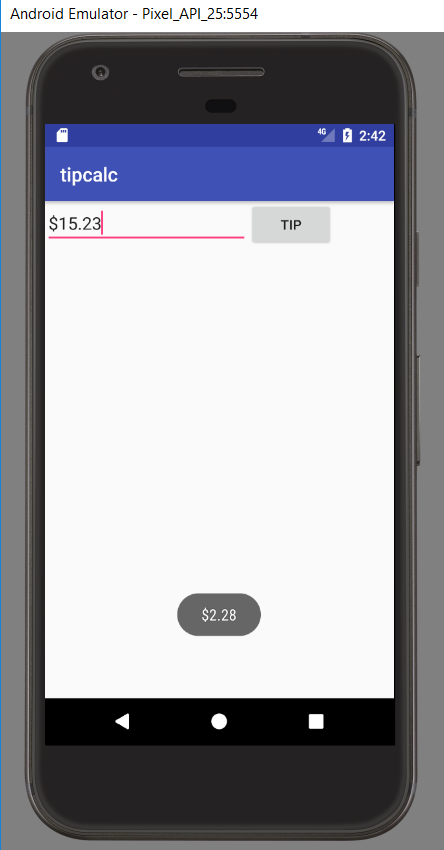
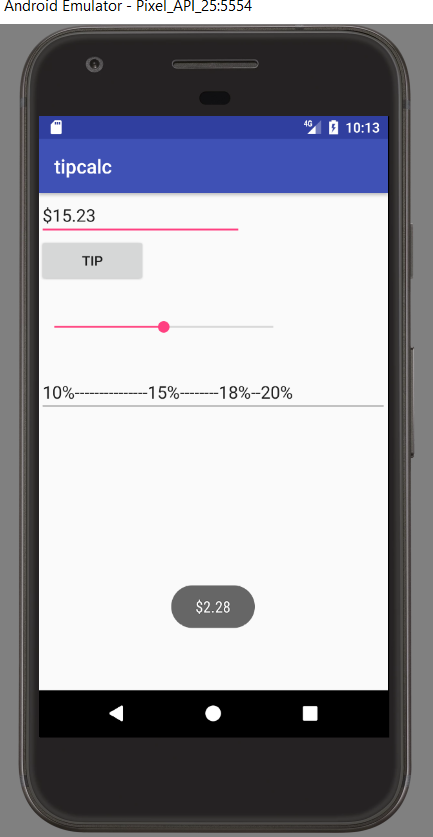
extra credit

diff --git a/app/src/main/java/edu/washington/ronney/tipcalc/MainActivity.kt b/app/src/main/java/edu/washington/ronney/tipcalc/MainActivity.kt
@@ -11,9 +11,15 @@ import android.widget.Toast
 import java.math.BigDecimal
 import android.widget.*
 import android.widget.Spinner
+import kotlinx.android.synthetic.main.activity_main.view.*
+import android.widget.SeekBar
+import android.widget.SeekBar.OnSeekBarChangeListener
+
+
 
 class MainActivity : AppCompatActivity() {
 
+    var tipValue : Double = 0.15
 
     override fun onCreate(savedInstanceState: Bundle?) {
         super.onCreate(savedInstanceState)
@@ -21,12 +27,14 @@ class MainActivity : AppCompatActivity() {
 
         val input : EditText = findViewById<View>(R.id.editText) as EditText
         val button = findViewById<View>(R.id.button) as Button
+        val seekBar = findViewById<View>(R.id.seekBar) as SeekBar
+
         button.setEnabled(false)
 
         button.setOnClickListener() {
             var tip = input.getText().toString()
             tip = tip.replace("$", "")
-            var newTip = BigDecimal(tip.toDouble() * 0.15).
+            var newTip = BigDecimal(tip.toDouble() * tipValue).
                     setScale(2, BigDecimal.ROUND_HALF_UP).toDouble()
 
             Toast.makeText(this@MainActivity, "$" + newTip.toString(), Toast.LENGTH_SHORT).show()
@@ -77,5 +85,20 @@ class MainActivity : AppCompatActivity() {
 
             }
         })
+
+       seekBar.setOnSeekBarChangeListener(object : OnSeekBarChangeListener {
+            override fun onProgressChanged(p0: SeekBar?, p1: Int, p2: Boolean) {
+                tipValue = (p1+10).toDouble() / 100
+            }
+
+            override fun onStartTrackingTouch(p0: SeekBar?) {
+            }
+
+            override fun onStopTrackingTouch(p0: SeekBar?) {
+            }
+
+        })
+
     }
 }
+
